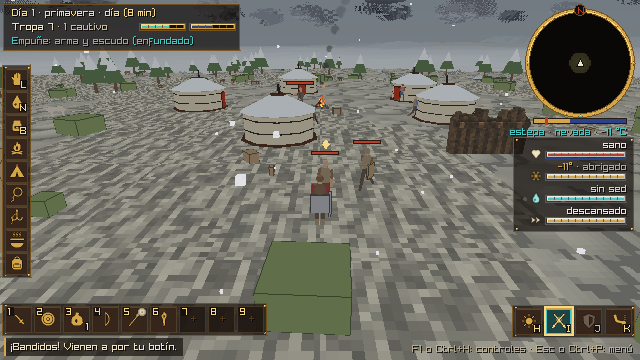
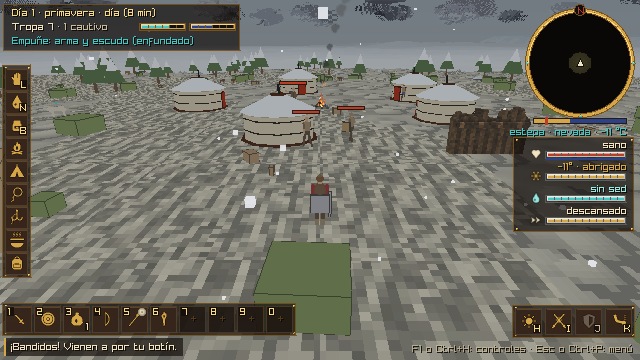
Cuevas y táctica: textos en inglés, la cámara bajo la bóveda, el claro de la boca y las capturas
- Las 71 frases nuevas (cuevas, cobertura, objetivo, barra rápida), traducidas: en 2255/2255.
- La cámara de la cueva no sube por encima de la bóveda junto a la pared (se veía la roca de afuera).
- Los árboles no crecen a menos de 12 m de una boca (ni adentro del peñasco).
- El inventario deja lugar abajo para la fila de la barra rápida (1-0) sin pisar el registro.
- Capturas nuevas (tools/capturas.sh): la barra, el objetivo, la cobertura, las tres bocas, la guarida de
  fieras, la Cisterna habitada, el prisionero, el rescate, la traición, y la misma recámara a oscuras y con
  la antorcha; las de las manos, el juego y el inventario, rehechas.

Claude-Session: https://claude.ai/code/session_01LSTD6iWnn2bnoyhKZ9wkd2

diff --git a/src/game/cave_game.c b/src/game/cave_game.c
@@ -101,9 +101,8 @@ static float wall_r(const CaveRoom *r, int room, float a) {
     return r->radius + 0.36f + 0.22f * sinf(3.0f * a + (float)room * 1.7f) + 0.12f * sinf(7.0f * a + (float)room * 0.9f);
 }
 
-// La altura de la boveda (sobre el suelo) a frac del radio de la pared.
-static float dome_y(int room, float frac) {
-    float height = room_height(room);
+// La altura de la boveda (sobre el suelo) a frac del radio de la pared, en una sala de ese alto.
+static float dome_h(float height, float frac) {
     if (frac >= 1.0f) return ring_h(2, height);
     for (int j = 2; j < ROOM_RINGS - 1; j++) {
         if (frac > RING_F[j] || frac < RING_F[j + 1]) continue;
@@ -111,6 +110,19 @@ static float dome_y(int room, float frac) {
         return ring_h(j, height) + (ring_h(j + 1, height) - ring_h(j, height)) * u;
     }
     return height;
+}
+
+static float dome_y(int room, float frac) { return dome_h(room_height(room), frac); }
+
+// El techo de verdad sobre (x, z): en una sala y en el vestibulo, la boveda tal como se dibuja (mas baja junto a la
+// pared que en el centro); en un pasillo, el suyo.
+static float rock_above(const Cave *c, float x, float z, int where, float floor_y) {
+    static const CaveRoom VEST = { 0.0f, CAVE_VEST_Z, 0.0f, CAVE_VEST_R };
+    const CaveRoom *r = where >= 0 && where < c->room_count ? &c->rooms[where] : where == CAVE_VESTIBULE ? &VEST : NULL;
+    if (!r) return cave_ceiling(c, where, floor_y);
+    float a = atan2f(x - r->x, z - r->z), d = sqrtf((x - r->x) * (x - r->x) + (z - r->z) * (z - r->z));
+    float height = where == CAVE_VESTIBULE ? CAVE_VEST_HEIGHT : room_height(where);
+    return r->floor_y + dome_h(height, d / wall_r(r, where == CAVE_VESTIBULE ? -1 : where, a));
 }
 
 // Donde se dibuja un objeto: lo de la pared, sobre la roca (inset: cuanto sobresale); yaw: mirando al centro.
@@ -944,7 +956,7 @@ void cv_camera(const Terrain *t, Camera3D *cam, float yaw, float pitch, float di
         float fy = 0.0f;
         int where = 0;
         if (!cave_floor(c, q.x, q.z, &fy, &where) || q.z < -0.5f) break; // ni detras de la boca (su luz, en z = -0,95)
-        if (q.y > cave_ceiling(c, where, fy) - 0.4f || q.y < fy + 0.3f) break;
+        if (q.y > rock_above(c, q.x, q.z, where, fy) - 0.4f || q.y < fy + 0.3f) break;
         ok = d;
     }
     cam->position = Vector3Add(target, Vector3Scale(back, ok));

diff --git a/src/main.c b/src/main.c
@@ -573,7 +573,7 @@ static void go_to(const Terrain *t, Player *p, const char *what) {
             want = !strcmp(dash + 1, REG[s->region]);
         if (want) x = s->x + 58.0f, z = s->z + 20.0f, lx = s->x, lz = s->z, ok = true;
     }
-    if (!strncmp(what, "boca-", 5)) { // la boca de la cueva de ese tipo mas cercana al campamento, de frente, a 9 m
+    if (!strncmp(what, "boca-", 5)) { // la boca de la cueva de ese tipo mas cercana al campamento, de frente, a 6 m
         static const char *KINDS[CAVE_KINDS] = { "animal", "abandonada", "forajidos", "tribu", "imperio" };
         float best = 1e30f;
         for (int i = 0; i < w->cave_count; i++) {
@@ -581,7 +581,7 @@ static void go_to(const Terrain *t, Player *p, const char *what) {
             float d = c->x * c->x + c->z * c->z;
             if (strcmp(what + 5, KINDS[c->kind]) != 0 || d > best) continue;
             best = d, ok = true;
-            cave_to_world(c, 0.0f, -9.0f, &x, &z);
+            cave_to_world(c, 0.0f, -6.0f, &x, &z);
             lx = c->x, lz = c->z;
         }
     }

diff --git a/src/world/terrain.c b/src/world/terrain.c
@@ -418,6 +418,10 @@ static bool near_site(const World *w, float x, float z) {
         float dx = x - w->tribes[i].x, dz = z - w->tribes[i].z;
         if (dx * dx + dz * dz < 26.0f * 26.0f) return true;
     }
+    for (int i = 0; i < w->cave_count; i++) { // la boca de una cueva y su peñasco (src/game/world_game.c), despejados
+        float dx = x - w->caves[i].x, dz = z - w->caves[i].z;
+        if (dx * dx + dz * dz < 12.0f * 12.0f) return true;
+    }
     return false;
 }
 

diff --git a/src/game/inventory_game.c b/src/game/inventory_game.c
@@ -702,10 +702,10 @@ static void sync_packs(GameActions *ga, char *log, size_t len) {
 
 // ------------------------------------------------------------------ disposicion (dibujo y raton)
 #define PANE_W 300
-#define PANE_H 296
+#define PANE_H 272 // abajo: lo que llevas encima y la fila de la barra rapida (1-0); mas abajo, el registro
 #define PANE_Y 12
 #define INV_COLS 8
-#define INV_ROWS 6
+#define INV_ROWS 5
 #define INV_TILE 32
 #define INV_GAP 3
 
